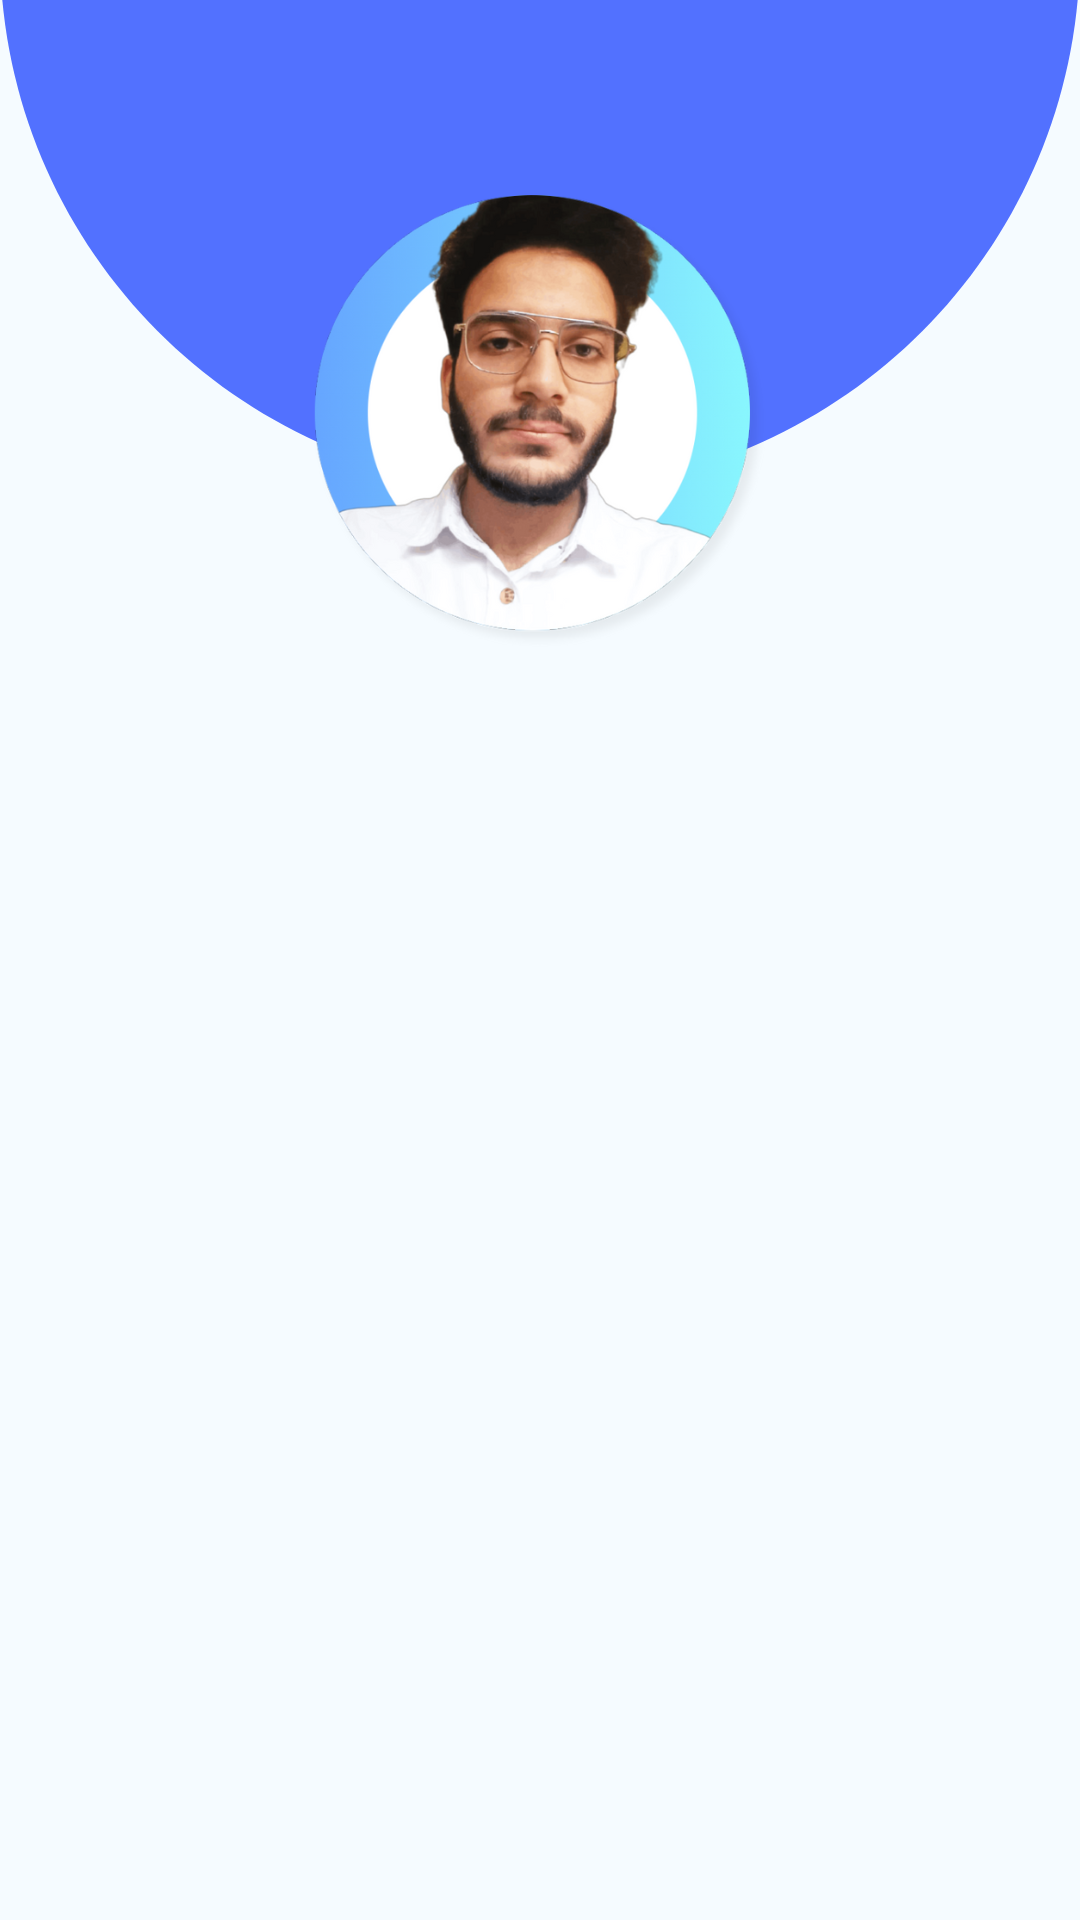
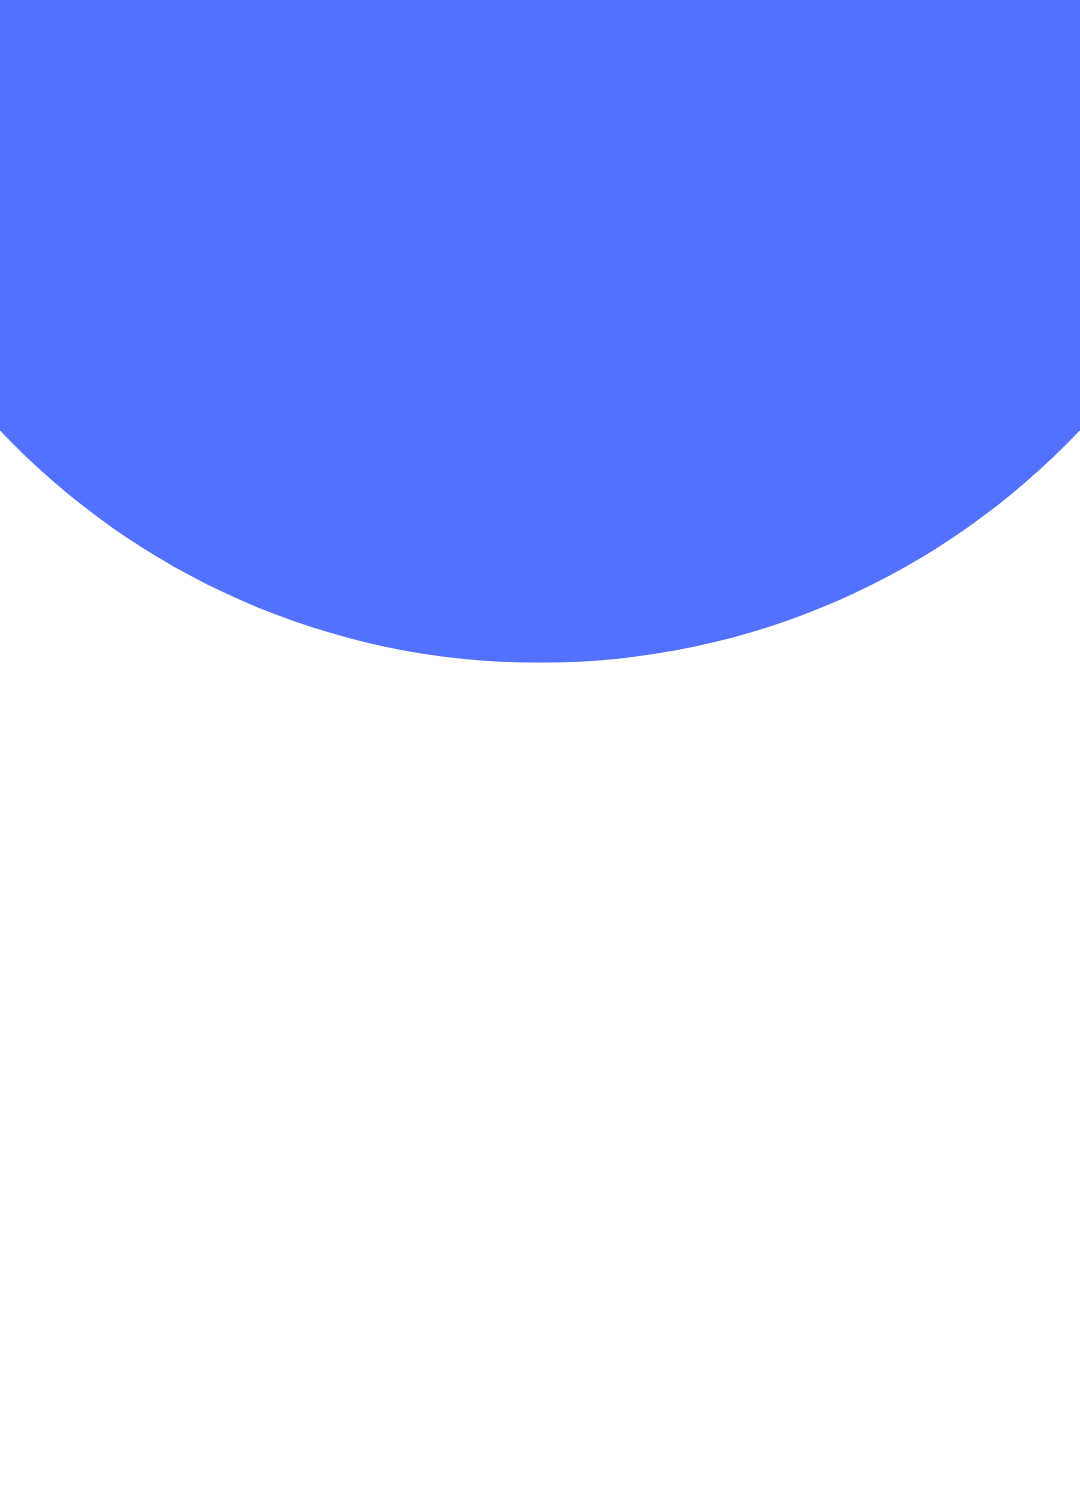
Hero responsive and work section

Changed region(s): [[0.0, 0.0, 1.0, 0.46]]

diff --git a/index.html b/index.html
@@ -61,16 +61,17 @@
 
   <!-- ======= Hero Section ======= -->
   <section id="hero" class="d-flex flex-column justify-content-center">
-    <div class="container" data-aos="zoom-in" data-aos-delay="100">
-      <h1>Ali Bin Kashif</h1>
-      <p><span class="typed" data-typed-items="Data Analyst,Aspiring Data Scientist,Kaggle Expert, AL and ML Enthusiast, Computer Science NEDUET'24"></span></p>
-      <div class="social-links">
-        <a href="https://www.linkedin.com/in/ali-bin-kashif/" target="_blank" class="linkedin"><i class="fa-brands fa-linkedin"></i></a>
-        <a href="https://github.com/ali-bin-kashif" class="github"><i class="fa-brands fa-github"></i></a>
-        <a href="https://www.kaggle.com/alibinkashif" class="kaggle"><i class="fa-brands fa-kaggle"></i></a>
-        <a href="https://www.facebook.com/ali.binkashif/" class="facebook"><i class="fa-brands fa-facebook"></i></a>
-
-        
+    <div class="container hero-section" data-aos="zoom-in" data-aos-delay="100">
+      <img id="main-img" src="./assets/img/profile-pic (6).png" alt="ali-pic">
+      <div class="content">
+        <h1>Ali Bin Kashif</h1>
+        <p><span class="typed" data-typed-items="Data Analyst,Aspiring Data Scientist,Kaggle Expert, AL and ML Enthusiast, Computer Science NEDUET'24"></span></p>
+        <div class="social-links">
+          <a href="https://www.linkedin.com/in/ali-bin-kashif/" target="_blank" class="linkedin"><i class="fa-brands fa-linkedin"></i></a>
+          <a href="https://github.com/ali-bin-kashif" class="github"><i class="fa-brands fa-github"></i></a>
+          <a href="https://www.kaggle.com/alibinkashif" class="kaggle"><i class="fa-brands fa-kaggle"></i></a>
+          <a href="https://www.facebook.com/ali.binkashif/" class="facebook"><i class="fa-brands fa-facebook"></i></a>
+        </div>
       </div>
     </div>
   </section><!-- End Hero -->
@@ -92,87 +93,47 @@
             With this comprehensive toolkit, I uncover valuable insights which helps in driving informed and data driven decision-making within organizations.</p>
           </div>
         </div>
-
-        
-
-        <!-- <div class="row">
-          <div class="col-lg-4">
-            
-          </div>
-          <div class="col-lg-8 pt-4 pt-lg-0 content">
-            <h3>UI/UX Designer &amp; Web Developer.</h3>
-            <p class="fst-italic">
-              Lorem ipsum dolor sit amet, consectetur adipiscing elit, sed do eiusmod tempor incididunt ut labore et dolore
-              magna aliqua.
-            </p>
-            <div class="row">
-              <div class="col-lg-6">
-                <ul>
-                  <li><i class="bi bi-chevron-right"></i> <strong>Birthday:</strong> <span>1 May 1995</span></li>
-                  <li><i class="bi bi-chevron-right"></i> <strong>Website:</strong> <span>www.example.com</span></li>
-                  <li><i class="bi bi-chevron-right"></i> <strong>Phone:</strong> <span>+123 456 7890</span></li>
-                  <li><i class="bi bi-chevron-right"></i> <strong>City:</strong> <span>New York, USA</span></li>
-                </ul>
-              </div>
-              <div class="col-lg-6">
-                <ul>
-                  <li><i class="bi bi-chevron-right"></i> <strong>Age:</strong> <span>30</span></li>
-                  <li><i class="bi bi-chevron-right"></i> <strong>Degree:</strong> <span>Master</span></li>
-                  <li><i class="bi bi-chevron-right"></i> <strong>PhEmailone:</strong> <span>email@example.com</span></li>
-                  <li><i class="bi bi-chevron-right"></i> <strong>Freelance:</strong> <span>Available</span></li>
-                </ul>
-              </div>
-            </div>
-            <p>
-              Officiis eligendi itaque labore et dolorum mollitia officiis optio vero. Quisquam sunt adipisci omnis et ut. Nulla accusantium dolor incidunt officia tempore. Et eius omnis.
-              Cupiditate ut dicta maxime officiis quidem quia. Sed et consectetur qui quia repellendus itaque neque. Aliquid amet quidem ut quaerat cupiditate. Ab et eum qui repellendus omnis culpa magni laudantium dolores.
-            </p>
-          </div>
-        </div>
-
-      </div> -->
     </section><!-- End About Section -->
 
     <!-- ======= Facts Section ======= -->
     <section id="facts" class="facts">
-      <div class="container" data-aos="fade-up">
+      <div class="container facts" data-aos="fade-up">
 
         <div class="section-title">
-          <h2>Facts</h2>
-          <p>Magnam dolores commodi suscipit. Necessitatibus eius consequatur ex aliquid fuga eum quidem. Sit sint consectetur velit. Quisquam quos quisquam cupiditate. Et nemo qui impedit suscipit alias ea. Quia fugiat sit in iste officiis commodi quidem hic quas.</p>
+          <h2>Work</h2>
         </div>
 
         <div class="row">
 
           <div class="col-lg-3 col-md-6">
             <div class="count-box">
-              <i class="bi bi-emoji-smile"></i>
-              <span data-purecounter-start="0" data-purecounter-end="232" data-purecounter-duration="1" class="purecounter"></span>
-              <p>Happy Clients</p>
+              <i class="fa-solid fa-list-check"></i>
+              <span data-purecounter-start="0" data-purecounter-end="7" data-purecounter-duration="1" class="purecounter"></span>
+              <p>Completed Projects</p>
             </div>
           </div>
 
           <div class="col-lg-3 col-md-6 mt-5 mt-md-0">
             <div class="count-box">
-              <i class="bi bi-journal-richtext"></i>
-              <span data-purecounter-start="0" data-purecounter-end="521" data-purecounter-duration="1" class="purecounter"></span>
-              <p>Projects</p>
+              <i class="fa-solid fa-bars-progress"></i>
+              <span data-purecounter-start="0" data-purecounter-end="2" data-purecounter-duration="1" class="purecounter"></span>
+              <p>Ongoing Projects</p>
             </div>
           </div>
 
           <div class="col-lg-3 col-md-6 mt-5 mt-lg-0">
             <div class="count-box">
-              <i class="bi bi-headset"></i>
-              <span data-purecounter-start="0" data-purecounter-end="1463" data-purecounter-duration="1" class="purecounter"></span>
-              <p>Hours Of Support</p>
+              <i class="fa-solid fa-briefcase"></i>
+              <span data-purecounter-start="0" data-purecounter-end="1" data-purecounter-duration="1" class="purecounter"></span>
+              <p>Internships</p>
             </div>
           </div>
 
           <div class="col-lg-3 col-md-6 mt-5 mt-lg-0">
             <div class="count-box">
-              <i class="bi bi-award"></i>
-              <span data-purecounter-start="0" data-purecounter-end="25" data-purecounter-duration="1" class="purecounter"></span>
-              <p>Awards</p>
+              <i class="fa-solid fa-award"></i>
+              <span data-purecounter-start="0" data-purecounter-end="3" data-purecounter-duration="1" class="purecounter"></span>
+              <p>Certifications</p>
             </div>
           </div>
 

diff --git a/assets/css/style.css b/assets/css/style.css
@@ -249,6 +249,8 @@ h6 {
   cursor: pointer;
   border-radius: 50px;
   padding: 5px;
+  background-color: #5271FF;
+  color: white;
 }
 
 .mobile-nav-toggle i {
@@ -274,7 +276,7 @@ h6 {
 #hero {
   width: 100%;
   height: 100vh;
-  background: url("../img/main-img.png") top right no-repeat;
+  background: url("../img/main-img2.png") top right no-repeat;
   background-size:cover;
   background-position: center right;
   position: relative;
@@ -282,18 +284,19 @@ h6 {
 
 @media (min-width: 992px) {
   #hero {
-    padding-left: 540px;
+    padding-left: 150px;
   }
 }
 
-/* @media (max-width: 576px) {
+@media (max-width: 768px) {
   #hero {
-    padding-left: 540px;
     background: url("../img/mob-img.png") top right no-repeat;
-    background-size:cover;
-    background-position: center;
+    /* background-size:cover; */
+    background-position:top;
+    background-size: contain;
+    align-items:start;
   }
-} */
+}
 
 #hero:before {
   content: "";
@@ -303,6 +306,43 @@ h6 {
   top: 0;
   left: 0;
   right: 0;
+}
+
+.hero-section{
+  display: flex;
+  align-items: center;
+}
+
+
+
+.container #main-img {
+  width: 300px; /* Adjust width as needed */
+  margin-right: 40px; /* Adjust margin as needed */
+  border-radius: 50%; /* Make the image circular */
+  box-shadow: 0 4px 8px rgba(0, 0, 0, 0.3); /* Add shadow */
+}
+
+.content {
+  flex: 1; /* Take remaining space */
+}
+
+@media (max-width: 768px) {
+  .container {
+    flex-direction: column; /* Stack items vertically on mobile */
+    text-align: center; /* Center-align content */
+  }
+
+  .container #main-img {
+    margin-right: 0px; /* Adjust margin as needed */
+    width: 250px;
+  }
+
+  .hero-section{
+    margin-top: -200px;
+    display: flex;
+    flex-direction: column;
+    gap:30px;
+  }
 }
 
 #hero h1 {
@@ -336,6 +376,19 @@ h6 {
   line-height: 1;
   margin-right: 20px;
   transition: 0.3s;
+}
+
+@media (max-width: 768px) {
+  #hero .social-links {
+    display: flex;
+    justify-content: center;
+    gap: 20px;
+  }
+  
+  #hero .social-links a {
+    margin-right: 0px;
+
+  }
 }
 
 #hero .social-links a:hover {
@@ -475,6 +528,12 @@ section {
 /*--------------------------------------------------------------
 # Facts
 --------------------------------------------------------------*/
+.facts{
+  display: flex;
+  flex-direction: column;
+  gap: 30px;
+}
+
 .facts .count-box {
   padding: 30px 30px 25px 30px;
   margin-top: 30px;
@@ -490,7 +549,7 @@ section {
   left: 50%;
   transform: translateX(-50%);
   font-size: 24px;
-  background: #0563bb;
+  background: #5271FF;
   color: #fff;
   border-radius: 50px;
   display: inline-flex;
